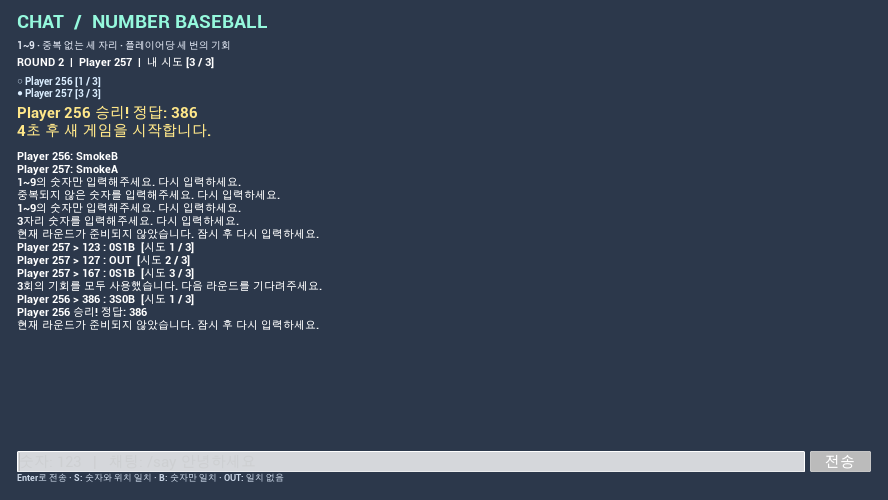
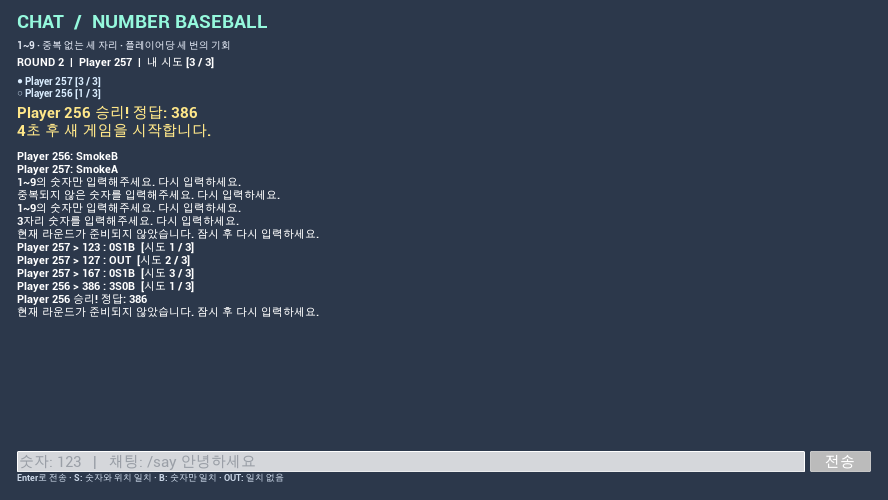
fix: preserve readable input colors when focused

diff --git a/Source/CHAT/UI/CHATChatInput.cpp b/Source/CHAT/UI/CHATChatInput.cpp
@@ -58,6 +58,8 @@ TSharedRef<SWidget> UCHATChatInput::RebuildWidget()
     EditableTextBox_ChatInput = WidgetTree->ConstructWidget<UEditableTextBox>(UEditableTextBox::StaticClass(), TEXT("EditableTextBox_ChatInput"));
     EditableTextBox_ChatInput->SetHintText(FText::FromString(TEXT("숫자: 123   |   채팅: /say 안녕하세요")));
     EditableTextBox_ChatInput->SetForegroundColor(FLinearColor(0.025f, 0.035f, 0.06f));
+    EditableTextBox_ChatInput->WidgetStyle.SetFocusedForegroundColor(FSlateColor(FLinearColor(0.025f, 0.035f, 0.06f)));
+    EditableTextBox_ChatInput->WidgetStyle.TextStyle.SetColorAndOpacity(FSlateColor(FLinearColor(0.025f, 0.035f, 0.06f)));
     EditableTextBox_ChatInput->SetClearKeyboardFocusOnCommit(false);
     Row->AddChildToHorizontalBox(EditableTextBox_ChatInput)->SetSize(FSlateChildSize(ESlateSizeRule::Fill));
     UButton* Send = WidgetTree->ConstructWidget<UButton>();

diff --git a/README.md b/README.md
@@ -3,6 +3,10 @@
 Unreal Engine **5.5.4 / C++ / UMG** 기반 멀티플레이 숫자 야구 과제입니다.
 기존 CHATX 채팅 프로젝트에서 출발해 프로젝트·모듈명을 CHAT으로, 모든 CX C++ 클래스 접두사를 CHAT으로 변경했습니다.
 
+![2인 접속 승리 결과 화면](Docs/Win.png)
+
+상세 검증 내용은 [검증 기록](Docs/Verification.md)을 참고하세요.
+
 ## 실행
 
 1. UE **5.5**와 Visual Studio의 C++ 게임 개발 도구를 설치합니다.

diff --git a/Docs/Verification.md b/Docs/Verification.md
@@ -2,6 +2,8 @@
 
 검증 날짜: 2026-10-07. 엔진: Unreal Engine 5.5.4 (CL 40574608), Windows 11.
 
+2026-10-08: 입력창의 포커스 상태 글자색을 명시적으로 지정한 후 최종 에디터 빌드를 다시 통과했습니다.
+
 ## 빌드
 
 - `CHATEditor Win64 Development`: 성공.
